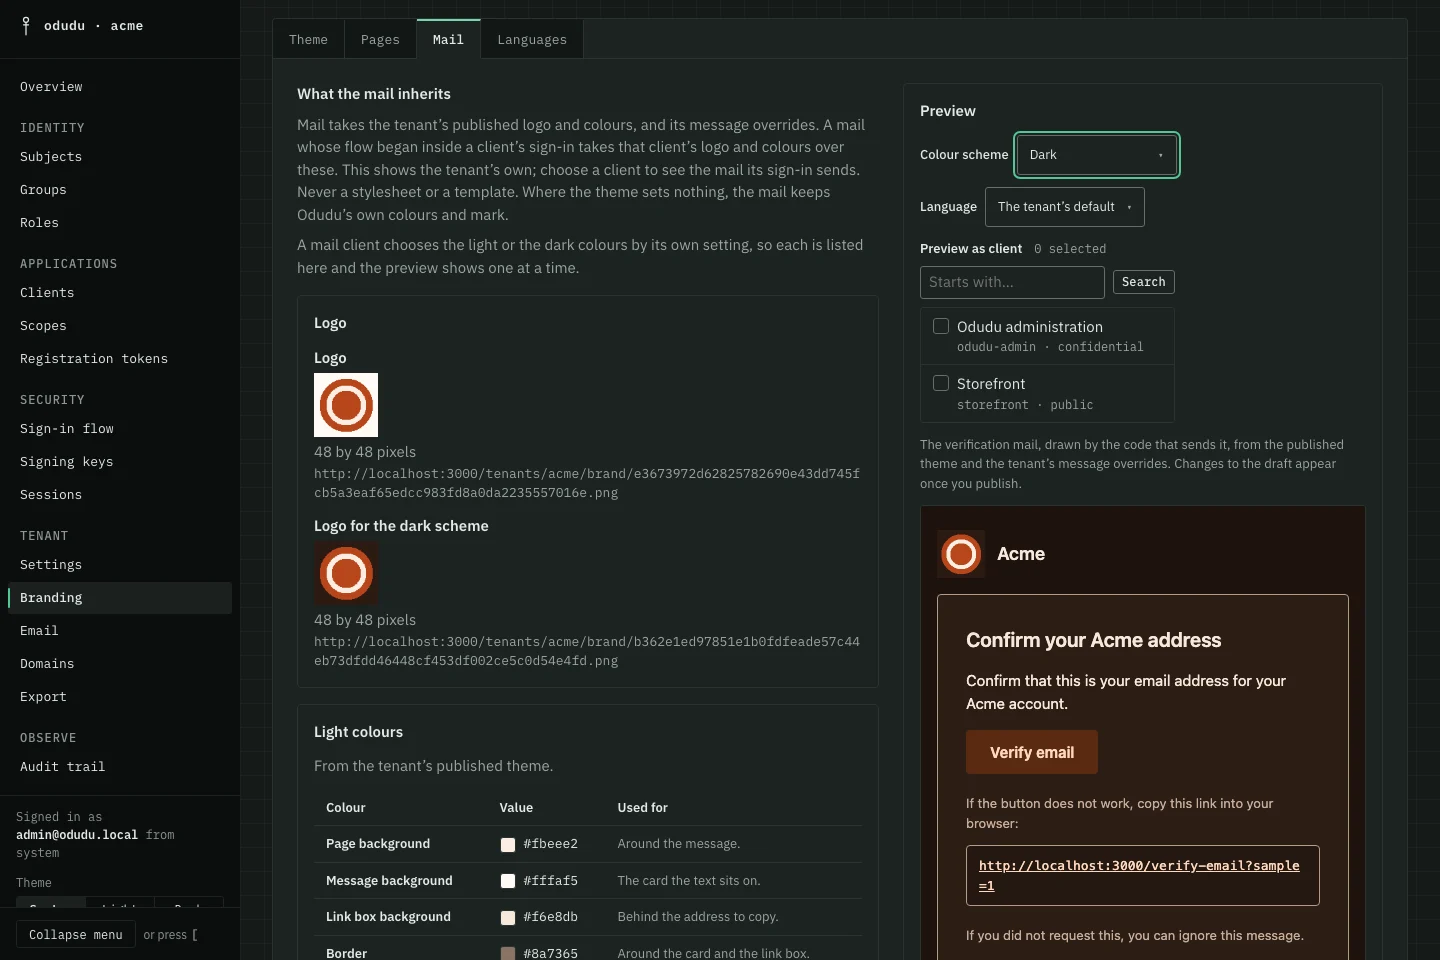
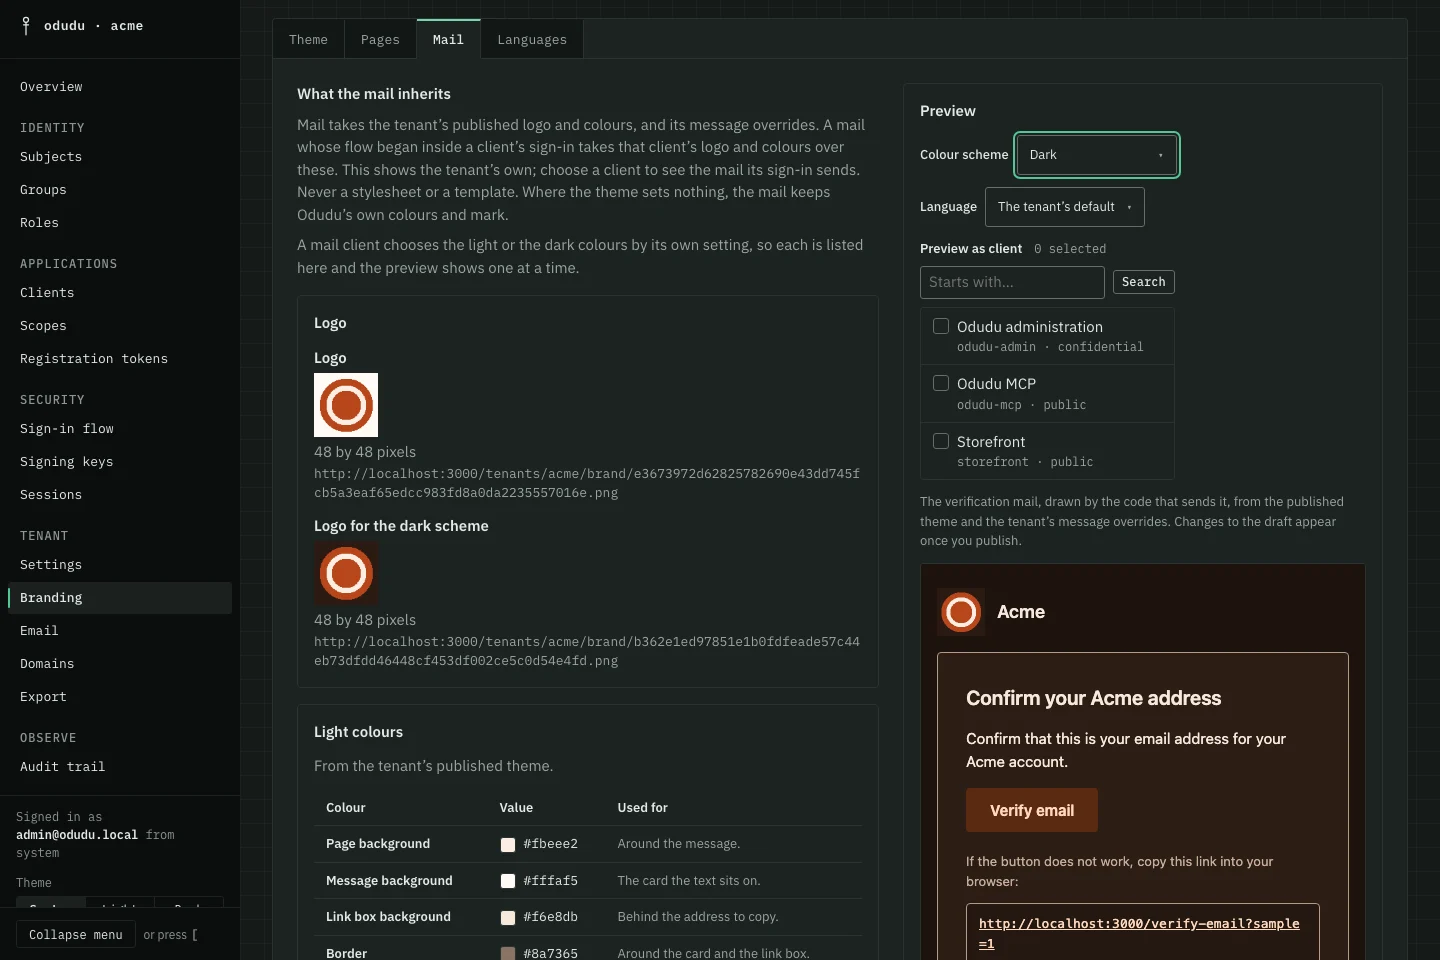
docs: odudu-mcp in the clients page, shots, transcripts, changelog
The clients list now shows three rows, so the clients, overview, email and
branding-mail shots and their records are regenerated. Three transcript
pages gained blocks run on a live stack (list, reserved id, delete
refusal, loopback port, export and import); the others say they predate it.

Changed region(s): [[0.625, 0.4375, 0.9375, 1.0], [0.6562, 0.375, 0.7188, 0.4062]]

diff --git a/apps/docs/scripts/console-shots/screens.ts b/apps/docs/scripts/console-shots/screens.ts
@@ -102,13 +102,13 @@ export const SCREENS: readonly Screen[] = [
   },
   {
     name: 'clients',
-    alt: "The demo tenant's Clients list: the built-in odudu-admin client and my-app, with a Create a client button.",
-    caption: 'The demo tenant lists my-app beside its built-in administration client.',
+    alt: "The demo tenant's Clients list: the built-in odudu-admin and odudu-mcp clients and my-app, with a Create a client button.",
+    caption: 'The demo tenant lists my-app beside its two built-in clients.',
     signedIn: true,
     expect: [
       { heading: 'Clients' },
       { role: 'link', name: 'Create a client' },
-      { rows: ['odudu-admin', CLIENT] },
+      { rows: ['odudu-admin', 'odudu-mcp', CLIENT] },
     ],
     open: (page, context) => openList(page, context, 'clients'),
   },

diff --git a/apps/docs/content/en/reference/transcripts/admin-paths/get-export.md b/apps/docs/content/en/reference/transcripts/admin-paths/get-export.md
@@ -48,10 +48,46 @@ each role on the built-in `odudu-admin` client and each default scope
 (`openid` and the rest) carries `"builtin": true`, so an import can merge
 onto its own copies. The `odudu-admin` client itself is not among
 `clients`, and no scope lists an assignment to it: an import provisions
-its own. A role on it is still referenced as
+its own. `odudu-mcp`, below, is the exception. A role on it is still referenced as
 `{"name": …, "client": "odudu-admin"}`, because a tenant role may carry the
 same name as a capability, and a reference that dropped the client would
 not tell the two apart.
+
+The built-in MCP client `odudu-mcp` is the exception, and does travel: it is an
+ordinary public client whose registration an administrator may amend (disable it,
+say), so it is listed under `clients` and in the `clients` of the scopes assigned
+to it, and an import replaces the provisioned one with the document's, once. This
+block, and the import after it, were run on a fresh stack against a tenant
+`mcp-demo` holding nothing else, and the export of the long block below was not
+re-run for it:
+
+```bash
+curl -sS -H "Authorization: Bearer $ADMIN_TOKEN" http://localhost:3092/admin/tenants/mcp-demo/export \
+  | jq -c '(.clients[] | select(.client_id=="odudu-mcp") | {client_id,name,type,enabled,redirect_uris,grant_types,audiences,token_endpoint_auth_method,consent_required,access_token_ttl_seconds,refresh_token_ttl_seconds}), (.scopes[] | select(.name|startswith("mcp:")) | {name, builtin, clients})'
+```
+
+```
+{"client_id":"odudu-mcp","name":"Odudu MCP","type":"public","enabled":true,"redirect_uris":["http://127.0.0.1","http://[::1]"],"grant_types":["authorization_code","refresh_token"],"audiences":["urn:odudu:params:admin-api"],"token_endpoint_auth_method":"none","consent_required":true,"access_token_ttl_seconds":300,"refresh_token_ttl_seconds":1209600}
+{"name":"mcp:read","builtin":true,"clients":[{"client_id":"odudu-mcp","assignment":"default"}]}
+{"name":"mcp:write","builtin":true,"clients":[{"client_id":"odudu-mcp","assignment":"optional"}]}
+```
+
+Importing that document as `mcp-demo-copy` answers `201`, and the copy lists the
+admin client and `odudu-mcp` once each, with no conflict between the client the
+new tenant was provisioned with and the one in the document:
+
+```bash
+curl -sS -H "Authorization: Bearer $ADMIN_TOKEN" http://localhost:3092/admin/tenants/mcp-demo/export > doc.json
+jq -n --slurpfile d doc.json '{name:"mcp-demo-copy", document:$d[0]}' > import.json
+curl -sS -o /dev/null -w '%{http_code}\n' -X POST -H "Authorization: Bearer $ADMIN_TOKEN" -H 'Content-Type: application/json' --data @import.json http://localhost:3092/admin/tenant-imports
+curl -sS -H "Authorization: Bearer $ADMIN_TOKEN" http://localhost:3092/admin/tenants/mcp-demo-copy/clients | jq -c '.items[].client_id'
+```
+
+```
+201
+"odudu-admin"
+"odudu-mcp"
+```
 
 `?include=subjects` adds `subjects` — each user with a sign-in, its profile
 claims and verification flags, its direct roles, its groups by path and its
@@ -118,7 +154,7 @@ Keep-Alive: timeout=72
 {"version":1,"settings":{"display_name":null,"enabled":true,"reset_password_allowed":false,"sso_session_idle_seconds":1800,"sso_session_max_seconds":36000,"password_min_length":15,"password_require_digit":false,"password_require_uppercase":false,"password_require_lowercase":false,"password_require_special":false,"password_not_username":true,"password_not_email":true,"password_history_depth":0,"password_max_age_days":0,"otp_required":false,"brute_force_max_failures":5,"brute_force_lockout_seconds":60,"brute_force_max_lockout_seconds":900,"brute_force_failure_reset_seconds":43200,"max_clients":200,"max_sessions_per_browser":25,"remember_me_allowed":false,"remember_me_idle_seconds":604800,"remember_me_max_seconds":2592000,"audit_retention_days":90,"username_editable":false,"access_token_ttl_seconds":300,"id_token_ttl_seconds":300,"refresh_token_ttl_seconds":1209600,"authorization_code_ttl_seconds":60,"login_ttl_seconds":1800,"verify_email_ttl_seconds":43200,"reset_password_ttl_seconds":300,"login_with_email":false,"audit_event_types":["admin_mutation","admin_access","authentication","session","token","credential"],"supported_locales":["en"],"default_locale":null},"flow":[{"authenticator":"passkey","requirement":"alternative"},{"authenticator":"password","requirement":"alternative"},{"authenticator":"otp","requirement":"conditional"},{"authenticator":"recovery-code","requirement":"conditional"}],"clients":[{"client_id":"billing-app","name":"billing-app","description":null,"name_i18n":{},"description_i18n":{},"type":"confidential","enabled":true,"full_scope_allowed":false,"skip_logout_confirmation":false,"registration_origin":"operator","redirect_uris":[],"grant_types":["client_credentials"],"token_endpoint_auth_method":"client_secret_basic","audiences":[],"access_token_ttl_seconds":null,"id_token_ttl_seconds":null,"refresh_token_ttl_seconds":null,"client_credentials_scopes":[],"web_origins":[],"post_logout_redirect_uris":[],"jwks":null,"jwks_uri":null,"frontchannel_logout_uri":null,"backchannel_logout_uri":null,"frontchannel_logout_session_required":false,"backchannel_logout_session_required":false,"consent_required":false,"token_exchange_impersonation_allowed":false,"userinfo_signed_response_alg":null,"userinfo_encrypted_response_alg":null,"userinfo_encrypted_response_enc":null,"tls_client_auth_subject_dn":null,"client_uri":null,"policy_uri":null,"tos_uri":null,"id_token_signed_response_alg":null,"default_max_age":null,"require_auth_time":false,"service_account_roles":[]}],"roles":[{"name":"billing-reader","client":null,"description":null,"default_for_new_subjects":false,"builtin":false,"composites":[]},{"name":"manage-clients","client":"odudu-admin","description":null,"default_for_new_subjects":false,"builtin":true,"composites":[]},{"name":"manage-domains","client":"odudu-admin","description":null,"default_for_new_subjects":false,"builtin":true,"composites":[{"name":"view-domains","client":"odudu-admin"}]},{"name":"manage-keys","client":"odudu-admin","description":null,"default_for_new_subjects":false,"builtin":true,"composites":[]},{"name":"manage-sessions","client":"odudu-admin","description":null,"default_for_new_subjects":false,"builtin":true,"composites":[]},{"name":"manage-tenant","client":"odudu-admin","description":null,"default_for_new_subjects":false,"builtin":true,"composites":[]},{"name":"manage-users","client":"odudu-admin","description":null,"default_for_new_subjects":false,"builtin":true,"composites":[{"name":"view-users","client":"odudu-admin"}]},{"name":"tenant-admin","client":"odudu-admin","description":null,"default_for_new_subjects":false,"builtin":true,"composites":[{"name":"manage-clients","client":"odudu-admin"},{"name":"manage-domains","client":"odudu-admin"},{"name":"manage-keys","client":"odudu-admin"},{"name":"manage-sessions","client":"odudu-admin"},{"name":"manage-tenant","client":"odudu-admin"},{"name":"manage-users","client":"odudu-admin"},{"name":"view-audit","client":"odudu-admin"},{"name":"view-domains","client":"odudu-admin"},{"name":"view-users","client":"odudu-admin"}]},{"name":"view-audit","client":"odudu-admin","description":null,"default_for_new_subjects":false,"builtin":true,"composites":[]},{"name":"view-domains","client":"odudu-admin","description":null,"default_for_new_subjects":false,"builtin":true,"composites":[]},{"name":"view-users","client":"odudu-admin","description":null,"default_for_new_subjects":false,"builtin":true,"composites":[]}],"groups":[{"path":"/finance","description":null,"default_for_new_subjects":false,"roles":[]}],"scopes":[{"name":"address","description":null,"include_in_id_token":true,"include_in_access_token":false,"default_client_assignment":"default","consent_text":null,"description_i18n":{},"consent_text_i18n":{},"display_order":0,"builtin":true,"roles":[],"mappers":[],"clients":[{"client_id":"billing-app","assignment":"default"}]},{"name":"email","description":null,"include_in_id_token":true,"include_in_access_token":false,"default_client_assignment":"default","consent_text":null,"description_i18n":{},"consent_text_i18n":{},"display_order":0,"builtin":true,"roles":[],"mappers":[],"clients":[{"client_id":"billing-app","assignment":"default"}]},{"name":"groups","description":null,"include_in_id_token":false,"include_in_access_token":true,"default_client_assignment":"default","consent_text":null,"description_i18n":{},"consent_text_i18n":{},"display_order":0,"builtin":true,"roles":[],"mappers":[],"clients":[{"client_id":"billing-app","assignment":"default"}]},{"name":"offline_access","description":null,"include_in_id_token":false,"include_in_access_token":false,"default_client_assignment":"optional","consent_text":null,"description_i18n":{},"consent_text_i18n":{},"display_order":0,"builtin":true,"roles":[],"mappers":[],"clients":[{"client_id":"billing-app","assignment":"optional"}]},{"name":"openid","description":null,"include_in_id_token":true,"include_in_access_token":false,"default_client_assignment":"default","consent_text":null,"description_i18n":{},"consent_text_i18n":{},"display_order":0,"builtin":true,"roles":[],"mappers":[],"clients":[{"client_id":"billing-app","assignment":"default"}]},{"name":"phone","description":null,"include_in_id_token":true,"include_in_access_token":false,"default_client_assignment":"default","consent_text":null,"description_i18n":{},"consent_text_i18n":{},"display_order":0,"builtin":true,"roles":[],"mappers":[],"clients":[{"client_id":"billing-app","assignment":"default"}]},{"name":"profile","description":null,"include_in_id_token":true,"include_in_access_token":false,"default_client_assignment":"default","consent_text":null,"description_i18n":{},"consent_text_i18n":{},"display_order":0,"builtin":true,"roles":[],"mappers":[],"clients":[{"client_id":"billing-app","assignment":"default"}]},{"name":"roles","description":null,"include_in_id_token":false,"include_in_access_token":true,"default_client_assignment":"default","consent_text":null,"description_i18n":{},"consent_text_i18n":{},"display_order":0,"builtin":true,"roles":[],"mappers":[],"clients":[{"client_id":"billing-app","assignment":"default"}]}],"registration_policy":{"registration_allowed":false,"verify_email":false,"client_registration_policy":"disabled"},"smtp":{"host":"smtp.example.test","port":587,"from_address":"noreply@export.example","username":null,"starttls":true},"message_overrides":[],"omitted":["clients[0].secret","smtp.password"]}
 ```
 
-A server that has `mcp:read` and `mcp:write` in the tenant exports both under `scopes`, with `default_client_assignment` `null` and no clients; this capture was taken before they existed and was not re-run.
+A server that has `mcp:read` and `mcp:write` in the tenant exports both under `scopes`, with `default_client_assignment` `null` and, since every tenant is provisioned with `odudu-mcp`, the assignments shown further up this page; this capture was taken before they existed and was not re-run.
 
 This block ran again after `view-domains` and `manage-domains` joined the built-in roles, so its ids and times are not those of the blocks around it. The tenant was made with the setup above, so the rest of the export is the same; the roles are the difference: two more built-in ones, and nine in `tenant-admin`.
 

diff --git a/apps/docs/content/en/reference/transcripts/admin-paths/get-clients-post-clients-and-get-clientsid.md b/apps/docs/content/en/reference/transcripts/admin-paths/get-clients-post-clients-and-get-clientsid.md
@@ -226,11 +226,65 @@ curl -sS -X POST \
 {"type":"about:blank","title":"Conflict","status":409,"detail":"the client_id \"odudu-admin\" is reserved","instance":"01a1872d-c793-7efe-8bf5-bc933364034f"}
 ```
 
+Every tenant is also provisioned with `odudu-mcp`, a public client for local
+MCP tools: loopback redirect URIs registered without a port, the code and
+refresh grants, `urn:odudu:params:admin-api` as its audience, and consent
+required. Its `client_id` is reserved the same way. This and the next three
+blocks were run on a freshly built stack against a tenant `mcp-demo` created
+for them, so the tenant holds nothing else:
+
+```bash
+curl -sS -H "Authorization: Bearer $ADMIN_TOKEN" \
+  "http://localhost:3092/admin/tenants/mcp-demo/clients" \
+  | jq -c '.items[] | {client_id, type, builtin_admin, token_endpoint_auth_method, redirect_uris, grant_types, audiences, consent_required}'
+```
+
+```
+{"client_id":"odudu-admin","type":"confidential","builtin_admin":true,"token_endpoint_auth_method":"private_key_jwt","redirect_uris":["http://127.0.0.1:8080/callback","http://localhost:3092/console/auth/callback"],"grant_types":["authorization_code","refresh_token"],"audiences":["urn:odudu:params:admin-api"],"consent_required":false}
+{"client_id":"odudu-mcp","type":"public","builtin_admin":false,"token_endpoint_auth_method":"none","redirect_uris":["http://127.0.0.1","http://[::1]"],"grant_types":["authorization_code","refresh_token"],"audiences":["urn:odudu:params:admin-api"],"consent_required":true}
+```
+
+The client is reserved at creation, like `odudu-admin`:
+
+```bash
+curl -sS -X POST \
+  -H "Authorization: Bearer $ADMIN_TOKEN" \
+  -H "Content-Type: application/json" \
+  -d '{"client_id": "odudu-mcp", "token_endpoint_auth_method": "none"}' \
+  http://localhost:3092/admin/tenants/mcp-demo/clients
+```
+
+```
+{"type":"about:blank","title":"Conflict","status":409,"detail":"the client_id \"odudu-mcp\" is reserved","instance":"01a1ac04-0eae-7942-8cef-2fd94ae8d699"}
+```
+
+`/authorize` accepts any port for a loopback IP literal that a public client
+registered without one (RFC 8252 section 7.3), and nothing else: the same
+request with `localhost`, or with a path the registration does not carry, is
+refused on the page and never redirected to. The three requests, by status
+(the first is the sign-in page; the others carry the body `Unregistered redirect
+URI`):
+
+```bash
+Q='response_type=code&client_id=odudu-mcp&scope=mcp%3Aread&resource=urn%3Aodudu%3Aparams%3Aadmin-api&state=s&code_challenge=E9Melhoa2OwvFrEMTJguCHaoeK1t8URWbuGJSstw-cM&code_challenge_method=S256'
+for R in 'http%3A%2F%2F127.0.0.1%3A53211%2F' 'http%3A%2F%2Flocalhost%3A53211%2F' 'http%3A%2F%2F127.0.0.1%3A53211%2Fcallback'; do
+  curl -sS -o /dev/null -w '%{http_code}\n' "http://localhost:3092/tenants/mcp-demo/protocol/openid-connect/auth?$Q&redirect_uri=$R"
+done
+```
+
+```
+200
+400
+400
+```
+
 Listing pages the same way `GET /admin/tenants` does — `?limit=`, `?cursor=`,
 ordered by `id`, a `Link: rel="next"` header and a `next` body member once a
 further page exists, no total (`GET /clients/count` below has one). Here the
 page of `client-facts-demo` held two clients, the tenant's own `odudu-admin` and
-`demo-backend` above:
+`demo-backend` above. That run predates `odudu-mcp`: a tenant created now holds it
+as a third (the block above), and the counts in the blocks below that page through
+`demo` were not re-run:
 
 ```bash
 curl -sS \

diff --git a/CHANGELOG.md b/CHANGELOG.md
@@ -9,6 +9,7 @@ All notable changes to Odudu are written here, newest first. The format follows
 ### Added
 
 - Every tenant has two new scopes, `mcp:read` and `mcp:write`, for the clients that will use its MCP endpoint, and a tenant that exists before the upgrade gets them when the server migrates. Neither is given to any client until you assign it. A request for either is refused with `invalid_scope` unless the resource is the tenant's MCP address (its address followed by `/mcp`) or the admin API, at the sign-in request and at the token endpoint for every grant, so a client registered for several audiences must name the MCP address as its `resource`. The consent screen says in plain words what each lets an application do, in English and Arabic, and `odudu seed restore-scopes` creates them again if one is deleted.
+- Every tenant has a built-in public client, `odudu-mcp`, for local MCP tools to sign in through: PKCE is required, it holds no secret, and its access tokens are for the admin API. It asks for `mcp:read`, with `mcp:write` optional, and shows each person a consent screen. A tenant that exists before the upgrade gets it when the server migrates, unless the tenant already has a client of that name, which is left alone. Its redirect addresses are `http://127.0.0.1` and `http://[::1]`, and a public client registered with a loopback address and no port is accepted at any port, as RFC 8252 asks of an app that listens on a free one; `localhost`, other hosts and confidential clients are still matched exactly. You can disable `odudu-mcp` but not delete it, and the client ID is reserved. A tenant export carries it, and an import reproduces it.
 - Each tenant publishes OAuth 2.0 authorization server metadata (RFC 8414), so a client that knows only a resource can find where to sign in without being told. It is at `/.well-known/oauth-authorization-server/tenants/<name>` on your base address, or at `/.well-known/oauth-authorization-server` on a tenant's own domain, and states the tenant's issuer and the same endpoints as its discovery document. It lists `mcp:read` and `mcp:write` among the scopes, `none` and `private_key_jwt` among the ways a client authenticates, and the signing algorithms `private_key_jwt` accepts. A tenant that is disabled or does not exist answers an empty `404`.
 - Each tenant publishes OAuth 2.0 protected resource metadata (RFC 9728) for its MCP endpoint, so an MCP client given only that address can find where to sign in. It is at `/.well-known/oauth-protected-resource/tenants/<name>/mcp` on your base address, or at `/.well-known/oauth-protected-resource/mcp` on a tenant's own domain. It states the MCP address as the `resource`, the tenant's issuer as its authorization server (the same issuer its authorization server metadata states), and `mcp:read` and `mcp:write` as the scopes. A tenant that is disabled or does not exist answers an empty `404`. The MCP endpoint itself is not served yet.
 - A tenant can have a public address of its own, such as `login.acme.com`, instead of `/tenants/<name>` under your server's address. Its sign-in pages, the issuer its tokens carry, its cookies and the links in its mail follow that address, and a tenant that does nothing behaves exactly as before. The guide is [Custom domains](apps/docs/content/en/operating/custom-domains.md).

diff --git a/apps/docs/content/en/contributing/transcripts.md b/apps/docs/content/en/contributing/transcripts.md
@@ -796,6 +796,20 @@ and the role `auditor` mapped to `roles` were the only other state. The OpenAPI
 section of [the admin API's OpenAPI page](../reference/transcripts/admin-paths/get-adminopenapijson.md) was run again on the
 same stack with nothing seeded.
 
+### The built-in MCP client
+
+The blocks about `odudu-mcp` on the pages for
+[`GET /clients`](../reference/transcripts/admin-paths/get-clients-post-clients-and-get-clientsid.md),
+[`DELETE /clients/{id}`](../reference/transcripts/admin-paths/delete-clientsid.md) and
+[`GET /export`](../reference/transcripts/admin-paths/get-export.md) were run on the project
+`odudu-p5a-i22` on `http://localhost:3092`, its `odudu` service built from the working tree
+of the commit that added the client, on an empty volume with a console key made for it.
+`seed admin --username ada` made the administrator, whose token was got as in
+[Getting the token](../reference/transcripts/admin-paths/getting-the-token.md), and the tenants
+`mcp-demo` and `mcp-demo-copy` were the only other state. The rest of those three pages,
+and every other transcript that lists a tenant's clients or exports one, predates the client
+and was not run again.
+
 ### A value that changes with a build is not asserted
 
 A transcript may show a response that holds a hashed file name, a byte size, a path

diff --git a/apps/docs/content/en/reference/transcripts/admin-paths/delete-clientsid.md b/apps/docs/content/en/reference/transcripts/admin-paths/delete-clientsid.md
@@ -43,3 +43,26 @@ Date: Mon, 05 Oct 2026 01:39:24 GMT
 Connection: keep-alive
 Keep-Alive: timeout=72
 ```
+
+The built-in MCP client, `odudu-mcp`, that every tenant is provisioned with is
+guarded against deletion too, with its own reason: an administrator turns it
+off by disabling it, which `PATCH` allows. Run on the stack and tenant
+`mcp-demo` of [the client listing](./get-clients-post-clients-and-get-clientsid.md):
+
+```bash
+MID=$(curl -sS -H "Authorization: Bearer $ADMIN_TOKEN" "http://localhost:3092/admin/tenants/mcp-demo/clients?client_id_exact=odudu-mcp" | jq -r '.items[0].id')
+curl -sS -D - -X DELETE -H "Authorization: Bearer $ADMIN_TOKEN" http://localhost:3092/admin/tenants/mcp-demo/clients/$MID
+```
+
+```
+HTTP/1.1 409 Conflict
+x-request-id: 01a1ac04-0e93-7ef9-bf55-8cab0d743972
+cache-control: no-store
+content-type: application/problem+json; charset=utf-8
+content-length: 204
+Date: Thu, 05 Nov 2026 14:01:49 GMT
+Connection: keep-alive
+Keep-Alive: timeout=72
+
+{"type":"about:blank","title":"Conflict","status":409,"detail":"odudu-mcp is this tenant's built-in MCP client and cannot be deleted; disable it instead","instance":"01a1ac04-0e93-7ef9-bf55-8cab0d743972"}
+```

diff --git a/apps/docs/content/en/reference/transcripts/admin-paths/post-admintenant-imports.md b/apps/docs/content/en/reference/transcripts/admin-paths/post-admintenant-imports.md
@@ -58,6 +58,8 @@ would refuse to remove, and naming one it does not give, which
 `POST /roles/:id/composites` would refuse to add: a capability role's shape
 is provisioning's in both directions.
 
+The built-in client `odudu-mcp` is matched the same way: the new tenant is provisioned with one, and a document that carries one replaces it, once, so a copy keeps what an administrator changed on it (a disabled client stays disabled); a document from before the client existed leaves the provisioned one in place. The run is under [`GET /export`](./get-export.md).
+
 Then one transaction creates the tenant the way `POST /admin/tenants` does
 — its row, flow, built-in admin client and a signing key of its own, never
 the source's — and writes the document into it: settings, flow, clients,
